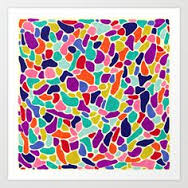
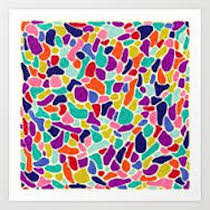
removed height and width attributes on html img element

Changed region(s): [[0.0798, 0.0798, 0.9043, 0.9043], [0.6915, 0.6915, 0.7181, 0.7181], [0.4521, 0.6649, 0.4787, 0.6915]]

diff --git a/coffee-blog.html b/coffee-blog.html
@@ -39,11 +39,11 @@
       
       <p>Here are some coffee quotes for your enjoyment!</p>
  
-      <img src="images/CoffeeQ1.jpg" width="172" height="172">
-      <img src="images/CoffeeQ2.jpg" width="172" height="172">
-      <img src="images/CoffeeQ3.jpg" width="172" height="172">
-      <img src="images/CoffeeQ4.jpg" width="172" height="172">
-      <img src="images/CoffeeQ5.jpg" width="172" height="172">
+      <img src="images/coffeeq1.jpg" >
+      <img src="images/coffeeq2.jpg" >
+      <img src="images/coffeeq3.jpg" >
+      <img src="images/coffeeq4.jpg" >
+      <img src="images/coffeeq5.jpg" >
       
     </section>
       
@@ -56,7 +56,7 @@
       </p>
       
       <figure>
-        <img src="images/Mocha.jpg" width="108" height="132">
+        <img src="images/mocha.jpg" >
         <figcaption>Lavender Mocha</figcaption>
       </figure>
       
@@ -75,7 +75,7 @@
       <p>Copyright The Coffee Lover 2015</p>
       
       <nav>
-        <a href="Contact.html" target="_blank">Contact Me</a>
+        <a href="contact.html" target="_blank">Contact Me</a>
         <a href="#">Terms of Use</a>
         <a href="#">Privacy Policy</a>
       </nav>
